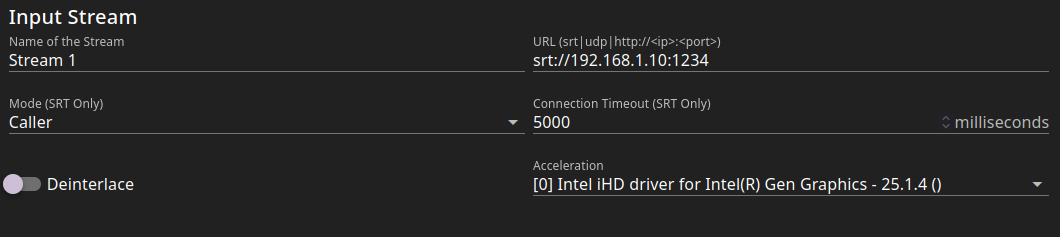
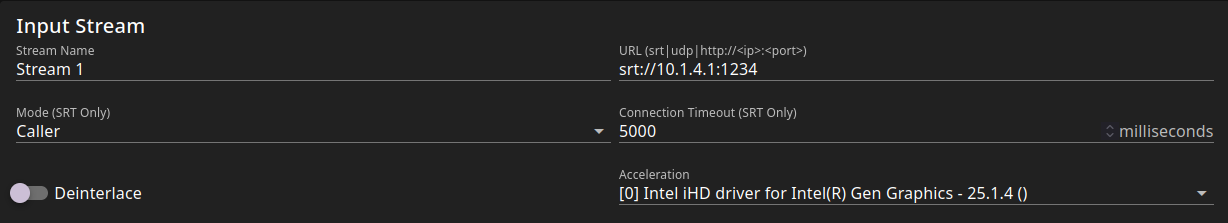
Fix text + web-component layout

diff --git a/frontend/pages/ff/config.vue b/frontend/pages/ff/config.vue
@@ -15,7 +15,7 @@
 
     <v-form ref="form" @submit.prevent>
       <v-row justify="center">
-        <v-col xl="7" lg="10">
+        <v-col xl="8" lg="10">
           <ff-config-input-stream v-model="config" />
 
           <ff-config-video-adaptation-sets v-model="config" />

diff --git a/frontend/components/ff/ConfigInputStream.vue b/frontend/components/ff/ConfigInputStream.vue
@@ -7,7 +7,7 @@
         <v-col>
           <v-text-field
             v-model="config.name"
-            label="Name of the Stream"
+            label="Stream Name"
             variant="underlined"
             density="compact"
           />
